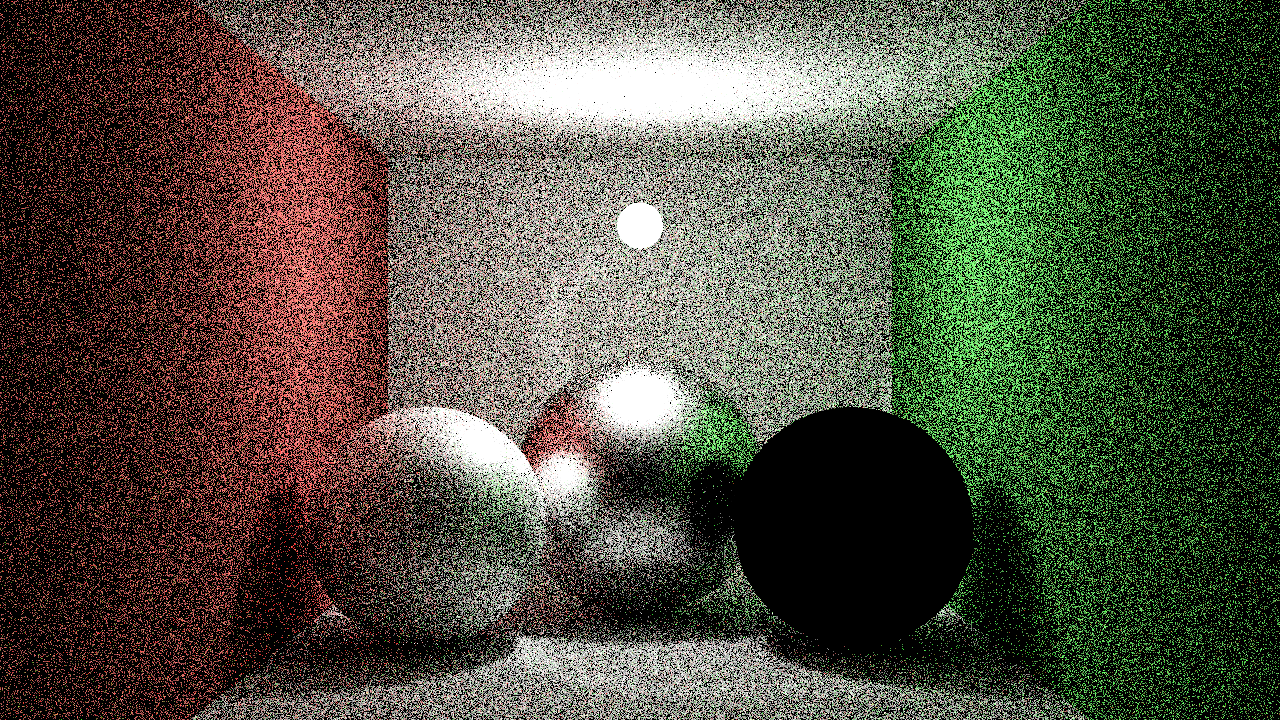
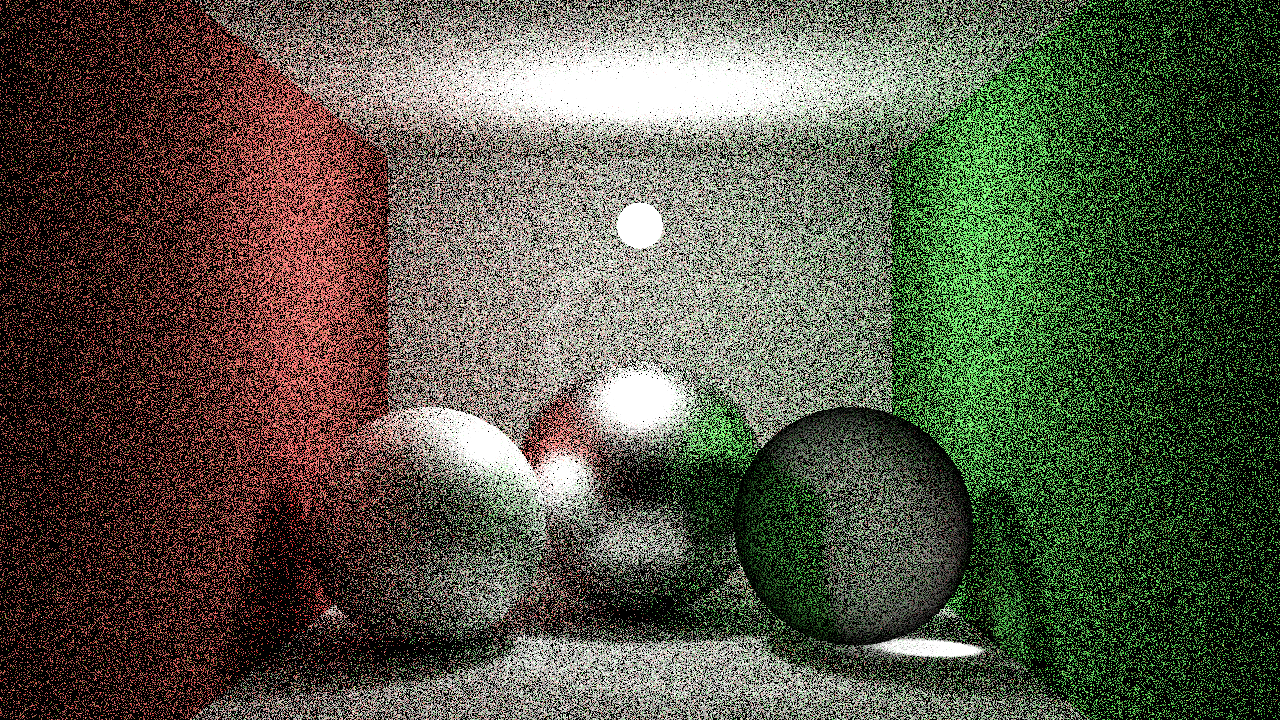
Made progress on refractions

diff --git a/src/materials.h b/src/materials.h
@@ -287,7 +287,8 @@ public:
             Vec3f u, v;
             sInfo.N().GetOrthonormals(u, v);
             const Vec3f h{ (x * u) + (y * v) + (cosTheta * sInfo.N()) };
-            dir = h * 2.0f * std::max(0.0f, sInfo.V().Dot(h)) - sInfo.V();
+            const float vDotH{ std::max(0.0f, sInfo.V().Dot(h)) };
+            dir = h * 2.0f * std::max(0.0f, vDotH) - sInfo.V();
 
             const float nDotDir{ std::max(0.00001f, sInfo.N().Dot(dir)) };
             if (nDotDir < 0.0f)
@@ -295,7 +296,6 @@ public:
 
             const float nDotH{ sInfo.N().Dot(h) };
             const float nDotV{ std::max(0.00001f, sInfo.N().Dot(sInfo.V())) };
-            const float vDotH{ std::max(0.0f, sInfo.V().Dot(h)) };
 
             const float G1_V{ 2.0f * nDotV / (nDotV + sqrtf(alphaSquared + (1.0f - alphaSquared) * (nDotV * nDotV))) };
             const float G1_L{ 2.0f * nDotDir / (nDotDir + sqrtf(alphaSquared + (1.0f - alphaSquared) * (nDotDir * nDotDir))) };
@@ -327,11 +327,71 @@ public:
             //si.mult = nDotDir < 1e-6 ? Color{ 0.0f } : specularColor / nDotDir;
             //return true;
         }
-        if (randomNum < diffuseProb + specularProb + transmissiveProb)
-        {
-            return true;
-            const Vec3f N{ sInfo.IsFront() ? sInfo.N() : -sInfo.N() };
-        }
+        //if (randomNum < diffuseProb + specularProb + transmissiveProb)
+        //{
+        //    si.lobe = DirSampler::Lobe::TRANSMISSION;
+        //    const Vec3f N{ sInfo.IsFront() ? sInfo.N() : -sInfo.N() };
+
+        //    const float phi{ 2.0f * Pi<float>() * sInfo.RandomFloat() };
+        //    const float r2{ sInfo.RandomFloat() };
+        //    const float alpha{ sqrtf(2.0f / (glossiness.GetValue() + 2.0f)) };
+        //    const float alphaSquared{ alpha * alpha };
+        //    const float cosTheta{ sqrtf((1.0f - r2) / (1.0f + (alphaSquared - 1.0f) * r2)) };
+        //    const float sinTheta{ sqrtf(1.0f - cosTheta * cosTheta) };
+        //    const float x{ cosf(phi) * sinTheta };
+        //    const float y{ sinf(phi) * sinTheta };
+
+        //    Vec3f u, v;
+        //    N.GetOrthonormals(u, v);
+        //    const Vec3f h{ (x * u) + (y * v) + (cosTheta * N) };
+
+        //    const float vDotH{ std::max(0.0f, sInfo.V().Dot(h)) };
+        //    const float nDotV{ std::max(0.00001f, N.Dot(sInfo.V())) };
+        //    const float nDotH{ N.Dot(h) };
+
+        //    const float eta{ sInfo.IsFront() ? 1.0f / ior : ior };
+        //    const float k{ 1.0f - eta * eta * (1.0f - vDotH * vDotH) };
+        //    const Color fresnel{ specularColor + (Color{ 1.0f } - specularColor) * powf(1.0f - vDotH, 5.0f) };
+
+        //    const float denom{ (nDotH * nDotH) * (alphaSquared - 1.0f) + 1.0f };
+        //    const float D{ alphaSquared / (Pi<float>() * denom * denom) };
+
+        //    // TIR
+        //    if (k < 0.0f)
+        //    {
+        //        si.lobe = DirSampler::Lobe::SPECULAR;
+        //        dir = h * 2.0f * std::max(0.0f, vDotH) - sInfo.V();
+
+        //        const float nDotDir{ std::max(0.00001f, N.Dot(dir)) };
+        //        if (nDotDir < 0.0f)
+        //            return false;
+
+        //        const float G1_V{ 2.0f * nDotV / (nDotV + sqrtf(alphaSquared + (1.0f - alphaSquared) * (nDotV * nDotV))) };
+        //        const float G1_L{ 2.0f * nDotDir / (nDotDir + sqrtf(alphaSquared + (1.0f - alphaSquared) * (nDotDir * nDotDir))) };
+        //        const float G{ G1_V * G1_L };
+
+        //        si.prob = specularProb * (D * nDotH) / (4.0f * std::max(0.00001f, vDotH));
+        //        si.mult = (D * fresnel * G) / (4.0f * nDotV * nDotDir);
+        //        return true;
+        //    }
+
+        //    dir = (eta * vDotH - sqrtf(k)) * h - eta * sInfo.V();
+        //    const float nDotDir{ std::abs(N.Dot(dir)) };
+
+        //    const float G1_V{ 2.0f * nDotV / (nDotV + sqrtf(alphaSquared + (1.0f - alphaSquared) * (nDotV * nDotV))) };
+        //    const float G1_L{ 2.0f * nDotDir / (nDotDir + sqrtf(alphaSquared + (1.0f - alphaSquared) * (nDotDir * nDotDir))) };
+        //    const float G{ G1_V * G1_L };
+
+        //    const float hDotDir{ h.Dot(dir) };
+
+        //    const float sqrtDenom{ vDotH + eta * hDotDir };
+        //    const float jacobian{ (std::abs(hDotDir) * eta * eta) / (sqrtDenom * sqrtDenom) };
+
+        //    si.prob = transmissiveProb * (D * nDotH) * jacobian;
+        //    si.mult = (transmissiveColor * (1.0f - fresnel) * G * vDotH) / (nDotV * nDotH);
+
+        //    return true;
+        //}
         //if (randomNum < diffuseProb + specularProb + transmissiveProb)
         //{
         //    const Vec3f N{ sInfo.IsFront() ? sInfo.N() : -sInfo.N() };
@@ -394,6 +454,51 @@ public:
 
         //    return dir.Dot(N) < 0.0f;
         //}
+        if (randomNum < diffuseProb + specularProb + transmissiveProb)
+        {
+            const Vec3f N{ sInfo.IsFront() ? sInfo.N() : -sInfo.N() };
+
+            si.lobe = DirSampler::Lobe::TRANSMISSION;
+            //si.mult = refraction.GetValue();
+            si.prob = transmissiveProb;
+            
+            // Direction
+            const float r1{ sInfo.RandomFloat() };
+            const float r2{ sInfo.RandomFloat() };
+            const float phi{ 2.0f * M_PI * r1 };
+            const float cosTheta{ pow(r2, 1.0f / (glossiness.GetValue() + 1.0f)) };
+            const float sinTheta{ sqrt(1.0f - cosTheta * cosTheta) };
+
+            const float x{ sinTheta * cos(phi) };
+            const float y{ sinTheta * sin(phi) };
+            const float z{ cosTheta };
+
+            Vec3f u, v;
+            N.GetOrthonormals(u, v);
+            const Vec3f h{ (x * u) + (y * v) + (z * N) };
+
+            const Vec3f V{ sInfo.V() };
+            const float refractionRatio{ sInfo.IsFront() ? 1.0f / ior : ior };
+            const float cosTheta_i{ V.Dot(h) };
+
+            const float sinTheta_t_sq{ (refractionRatio * refractionRatio) * (1.0f - cosTheta_i * cosTheta_i) };
+
+            if (sinTheta_t_sq > 1.0f)
+            {
+                si.lobe = DirSampler::Lobe::SPECULAR;
+
+                dir = h * 2 * sInfo.V().Dot(h) - sInfo.V();
+                si.mult = reflection.GetValue() * std::abs(dir.Dot(N));
+                return dir.Dot(N) > 0.0f;
+            }
+
+            const float cosTheta_t{ sqrtf(1.0f - sinTheta_t_sq) };
+
+            dir = -V * refractionRatio + h * (refractionRatio * cosTheta_i - cosTheta_t);
+            si.mult = refraction.GetValue() * std::abs(dir.Dot(N));
+
+            return dir.Dot(N) < 0.0f;
+        }
         return false;
 
     }
